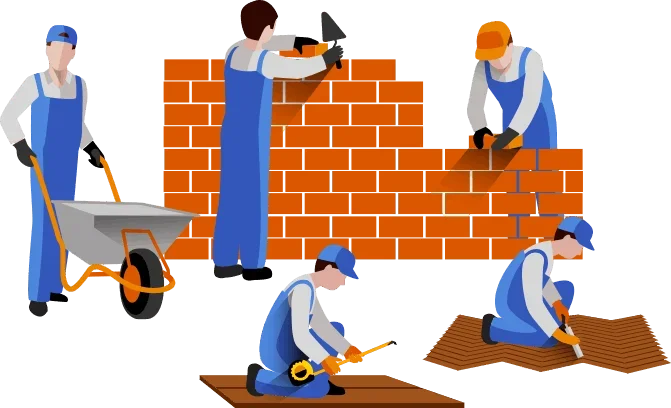
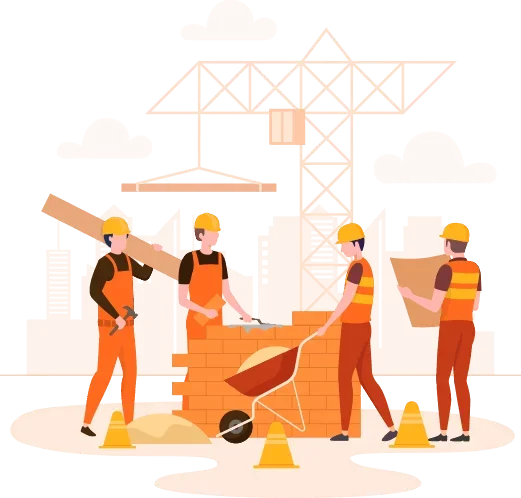
update the major images

diff --git a/src/components/home/Services.jsx b/src/components/home/Services.jsx
@@ -1,46 +1,46 @@
 import React from "react";
 import { Link } from "react-router-dom";
+import service1 from "../../assets/images/service1.jpg";
+import service2 from "../../assets/images/service2.jpg";
+import service3 from "../../assets/images/service3.jpg";
+import service4 from "../../assets/images/service4.jpg";
+import service5 from "../../assets/images/service5.jpg";
+import service6 from "../../assets/images/service6.jpg";
+import service7 from "../../assets/images/service7.jpg";
+import service8 from "../../assets/images/service8.jpg";
 
 const services = [
   {
-    title: "Concrete Repairs",
-    image:
-      "https://images.unsplash.com/photo-1541888946425-d81bb19240f5?ixlib=rb-1.2.1&auto=format&fit=crop&w=800&q=80",
+    title: "Specialized Concrete Repairs",
+    image: service1,
   },
   {
-    title: "Structural Health Monitoring via Sensors",
-    image:
-      "https://images.unsplash.com/photo-1581092160562-40aa08e78837?ixlib=rb-1.2.1&auto=format&fit=crop&w=800&q=80",
+    title: "Structural Audit & Scaffolding",
+    image: service2,
   },
   {
-    title: "Underwater Services",
-    image:
-      "https://images.unsplash.com/photo-1579546929518-9e396f3cc809?ixlib=rb-1.2.1&auto=format&fit=crop&w=800&q=80",
+    title: "Residential & Commercial Inspection",
+    image: service3,
   },
   {
-    title: "Retrofit Design",
-    image:
-      "https://images.unsplash.com/photo-1503387762-592deb58ef4e?ixlib=rb-1.2.1&auto=format&fit=crop&w=800&q=80",
+    title: "Bridge & Infrastructure Survey",
+    image: service4,
   },
   {
-    title: "Structural Strengthening",
-    image:
-      "https://images.unsplash.com/photo-1590059598288-0382379f8c65?ixlib=rb-1.2.1&auto=format&fit=crop&w=800&q=80",
+    title: "Industrial Structure Strengthening",
+    image: service5,
   },
   {
-    title: "Seismic Retrofit",
-    image:
-      "https://images.unsplash.com/photo-1605152276897-4f618f831968?ixlib=rb-1.2.1&auto=format&fit=crop&w=800&q=80",
+    title: "Drone-Aided Structural Inspection",
+    image: service6,
   },
   {
-    title: "External Post Tensioning Systems",
-    image:
-      "https://images.unsplash.com/photo-1585728362615-56fa2d287ce9?ixlib=rb-1.2.1&auto=format&fit=crop&w=800&q=80",
+    title: "Foundation & Grouting Works",
+    image: service7,
   },
   {
-    title: "Structural Steel Fabrication",
-    image:
-      "https://images.unsplash.com/photo-1504307651254-35680f356dfd?ixlib=rb-1.2.1&auto=format&fit=crop&w=800&q=80",
+    title: "Reinforcement & Rebar Works",
+    image: service8,
   },
 ];
 

diff --git a/src/components/home/MarketServed.jsx b/src/components/home/MarketServed.jsx
@@ -1,45 +1,45 @@
 import React from "react";
+import energyImg from "../../assets/images/structure.jpg";
+import hospitalImg from "../../assets/images/building.jpg";
+import bridgeImg from "../../assets/images/bridge.jpg";
+import damImg from "../../assets/images/dam.jpg";
+import fireImg from "../../assets/images/1_1.jpg";
+import heritageImg from "../../assets/images/1_2.jpg";
+import industrialImg from "../../assets/images/bulding.jpg";
+import marineImg from "../../assets/images/1_3.jpg";
 
 const markets = [
   {
     title: "Energy/Data Center",
-    image:
-      "https://images.unsplash.com/photo-1558494949-ef526bca4899?ixlib=rb-1.2.1&auto=format&fit=crop&w=800&q=80",
+    image: energyImg,
   },
   {
     title: "Hospital",
-    image:
-      "https://images.unsplash.com/photo-1519494026892-80bbd2d6fd0d?ixlib=rb-1.2.1&auto=format&fit=crop&w=800&q=80",
+    image: hospitalImg,
   },
   {
     title: "Bridges & Flyovers",
-    image:
-      "https://images.unsplash.com/photo-1513828583688-c52646db42da?ixlib=rb-1.2.1&auto=format&fit=crop&w=800&q=80",
+    image: bridgeImg,
   },
   {
     title: "Dams & Irrigation",
-    image:
-      "https://images.unsplash.com/photo-1574921676638-3444005aa31b?ixlib=rb-1.2.1&auto=format&fit=crop&w=800&q=80",
+    image: damImg,
   },
   {
-    title: "Fire Damaged Structures",
-    image:
-      "https://images.unsplash.com/photo-1605152276897-4f618f831968?ixlib=rb-1.2.1&auto=format&fit=crop&w=800&q=80",
+    title: "Damaged Structures",
+    image: fireImg,
   },
   {
     title: "Heritage",
-    image:
-      "https://images.unsplash.com/photo-1595841696677-6489ff3f8cd1?ixlib=rb-1.2.1&auto=format&fit=crop&w=800&q=80",
+    image: heritageImg,
   },
   {
     title: "Industrial Structures",
-    image:
-      "https://images.unsplash.com/photo-1563956461-12711685955b?ixlib=rb-1.2.1&auto=format&fit=crop&w=800&q=80",
+    image: industrialImg,
   },
   {
     title: "Marine Structures",
-    image:
-      "https://images.unsplash.com/photo-1573062638848-735f49896792?ixlib=rb-1.2.1&auto=format&fit=crop&w=800&q=80",
+    image: marineImg,
   },
 ];
 

diff --git a/src/pages/Leadership.jsx b/src/pages/Leadership.jsx
@@ -1,11 +1,16 @@
 import React from 'react';
 import { Link } from 'react-router-dom';
+import core1 from '../assets/images/core1.jpeg';
+import core2 from '../assets/images/core2.jpeg';
+import core3 from '../assets/images/core3.jpeg';
+import core4 from '../assets/images/core4.jpeg';
+import core5 from '../assets/images/core5.jpeg';
 
 const teamMembers = [
   {
     name: "Dr. (Prof) Veerendra Kumar",
     title: "Founder & Director",
-    image: "https://placehold.co/300x350?text=Dr.+Veerendra+Kumar",
+    image: core1,
     credentials: "FIE, MICI, MISTE, FIGS, MIBC",
     education: [
       "B.Tech in Civil Engineering, IIT Kanpur (1979)",
@@ -25,7 +30,7 @@ const teamMembers = [
   {
     name: "Dr. Anjani Kumar Shukla",
     title: "Managing Director",
-    image: "https://placehold.co/300x350?text=Dr.+Anjani+Kumar+Shukla",
+    image: core2,
     credentials: "MASCE, MIE, MICI",
     education: [
       "Ph.D. in Structural Engineering, IIT (BHU) Varanasi",
@@ -46,7 +51,7 @@ const teamMembers = [
   {
     name: "Dr. Dheeresh Nayak",
     title: "Design Expert",
-    image: "https://placehold.co/300x350?text=Dr.+Dheeresh+Nayak",
+    image: core4,
     credentials: "Ph.D. IIT (BHU) Varanasi",
     education: [
       "Ph.D. in Structural Engineering, IIT (BHU) Varanasi",
@@ -64,7 +69,7 @@ const teamMembers = [
   {
     name: "Mr. Rajesh Ranjan Srivastava",
     title: "Execution Expert",
-    image: "https://placehold.co/300x350?text=Rajesh+Srivastava",
+    image: core5,
     credentials: "B.Tech Civil Engg, MBA (Executive) IIM Calcutta",
     education: [
       "B.Tech in Civil Engineering",
@@ -83,7 +88,7 @@ const teamMembers = [
   {
     name: "Mr. Raghavendra Kumar",
     title: "Execution Expert",
-    image: "https://placehold.co/300x350?text=Raghavendra+Kumar",
+    image: core3,
     credentials: "M.Tech. Structural Engineering",
     education: [
       "M.Tech. in Structural Engineering"

diff --git a/src/pages/Home.jsx b/src/pages/Home.jsx
@@ -5,8 +5,6 @@ import MarketServed from "../components/home/MarketServed";
 import ProjectLifeCycle from "../components/home/ProjectLifeCycle";
 import Services from "../components/home/Services";
 import Stats from "../components/home/Stats";
-import SocialMedia from "../components/home/SocialMedia";
-import Clients from "../components/home/Clients";
 
 const Home = () => {
   return (
@@ -20,8 +18,6 @@ const Home = () => {
       <ProjectLifeCycle />
       <Services />
       <Stats />
-      <SocialMedia />
-      <Clients />
 
       {/* Structural Issue CTA - This mimics the site style, maybe keep it or move to footer? Keeping for now as page specific content */}
       <div className="bg-red-700 py-8">